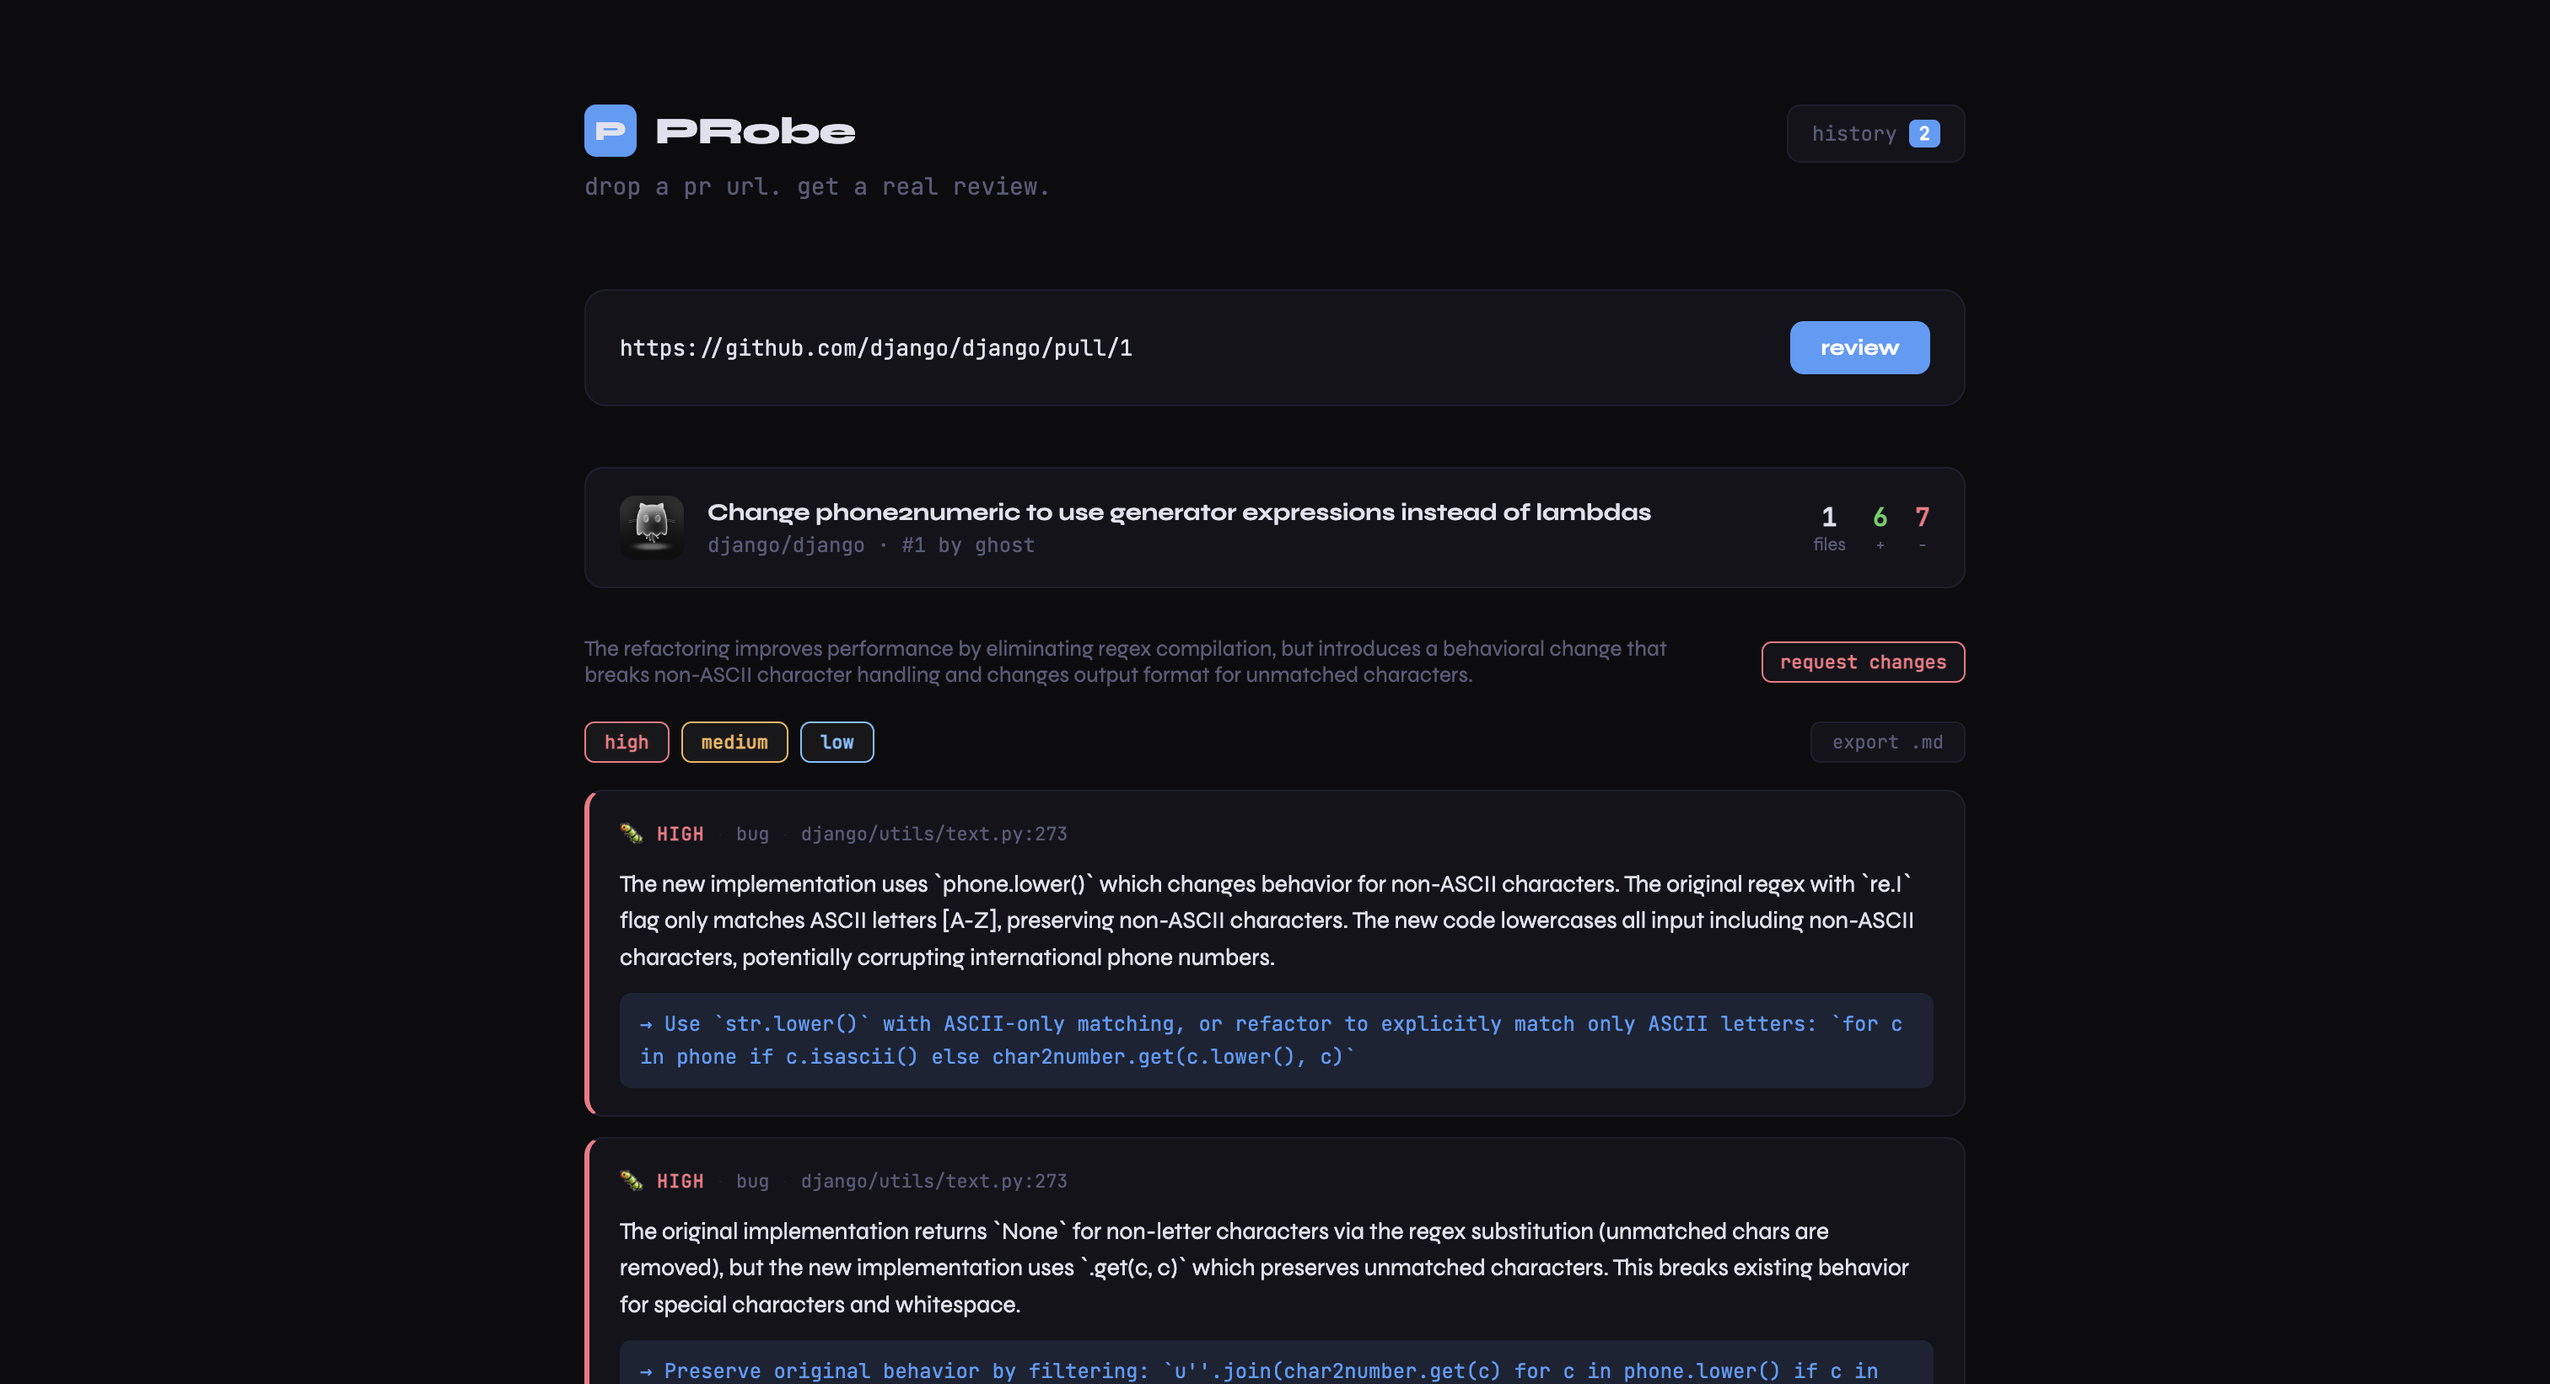
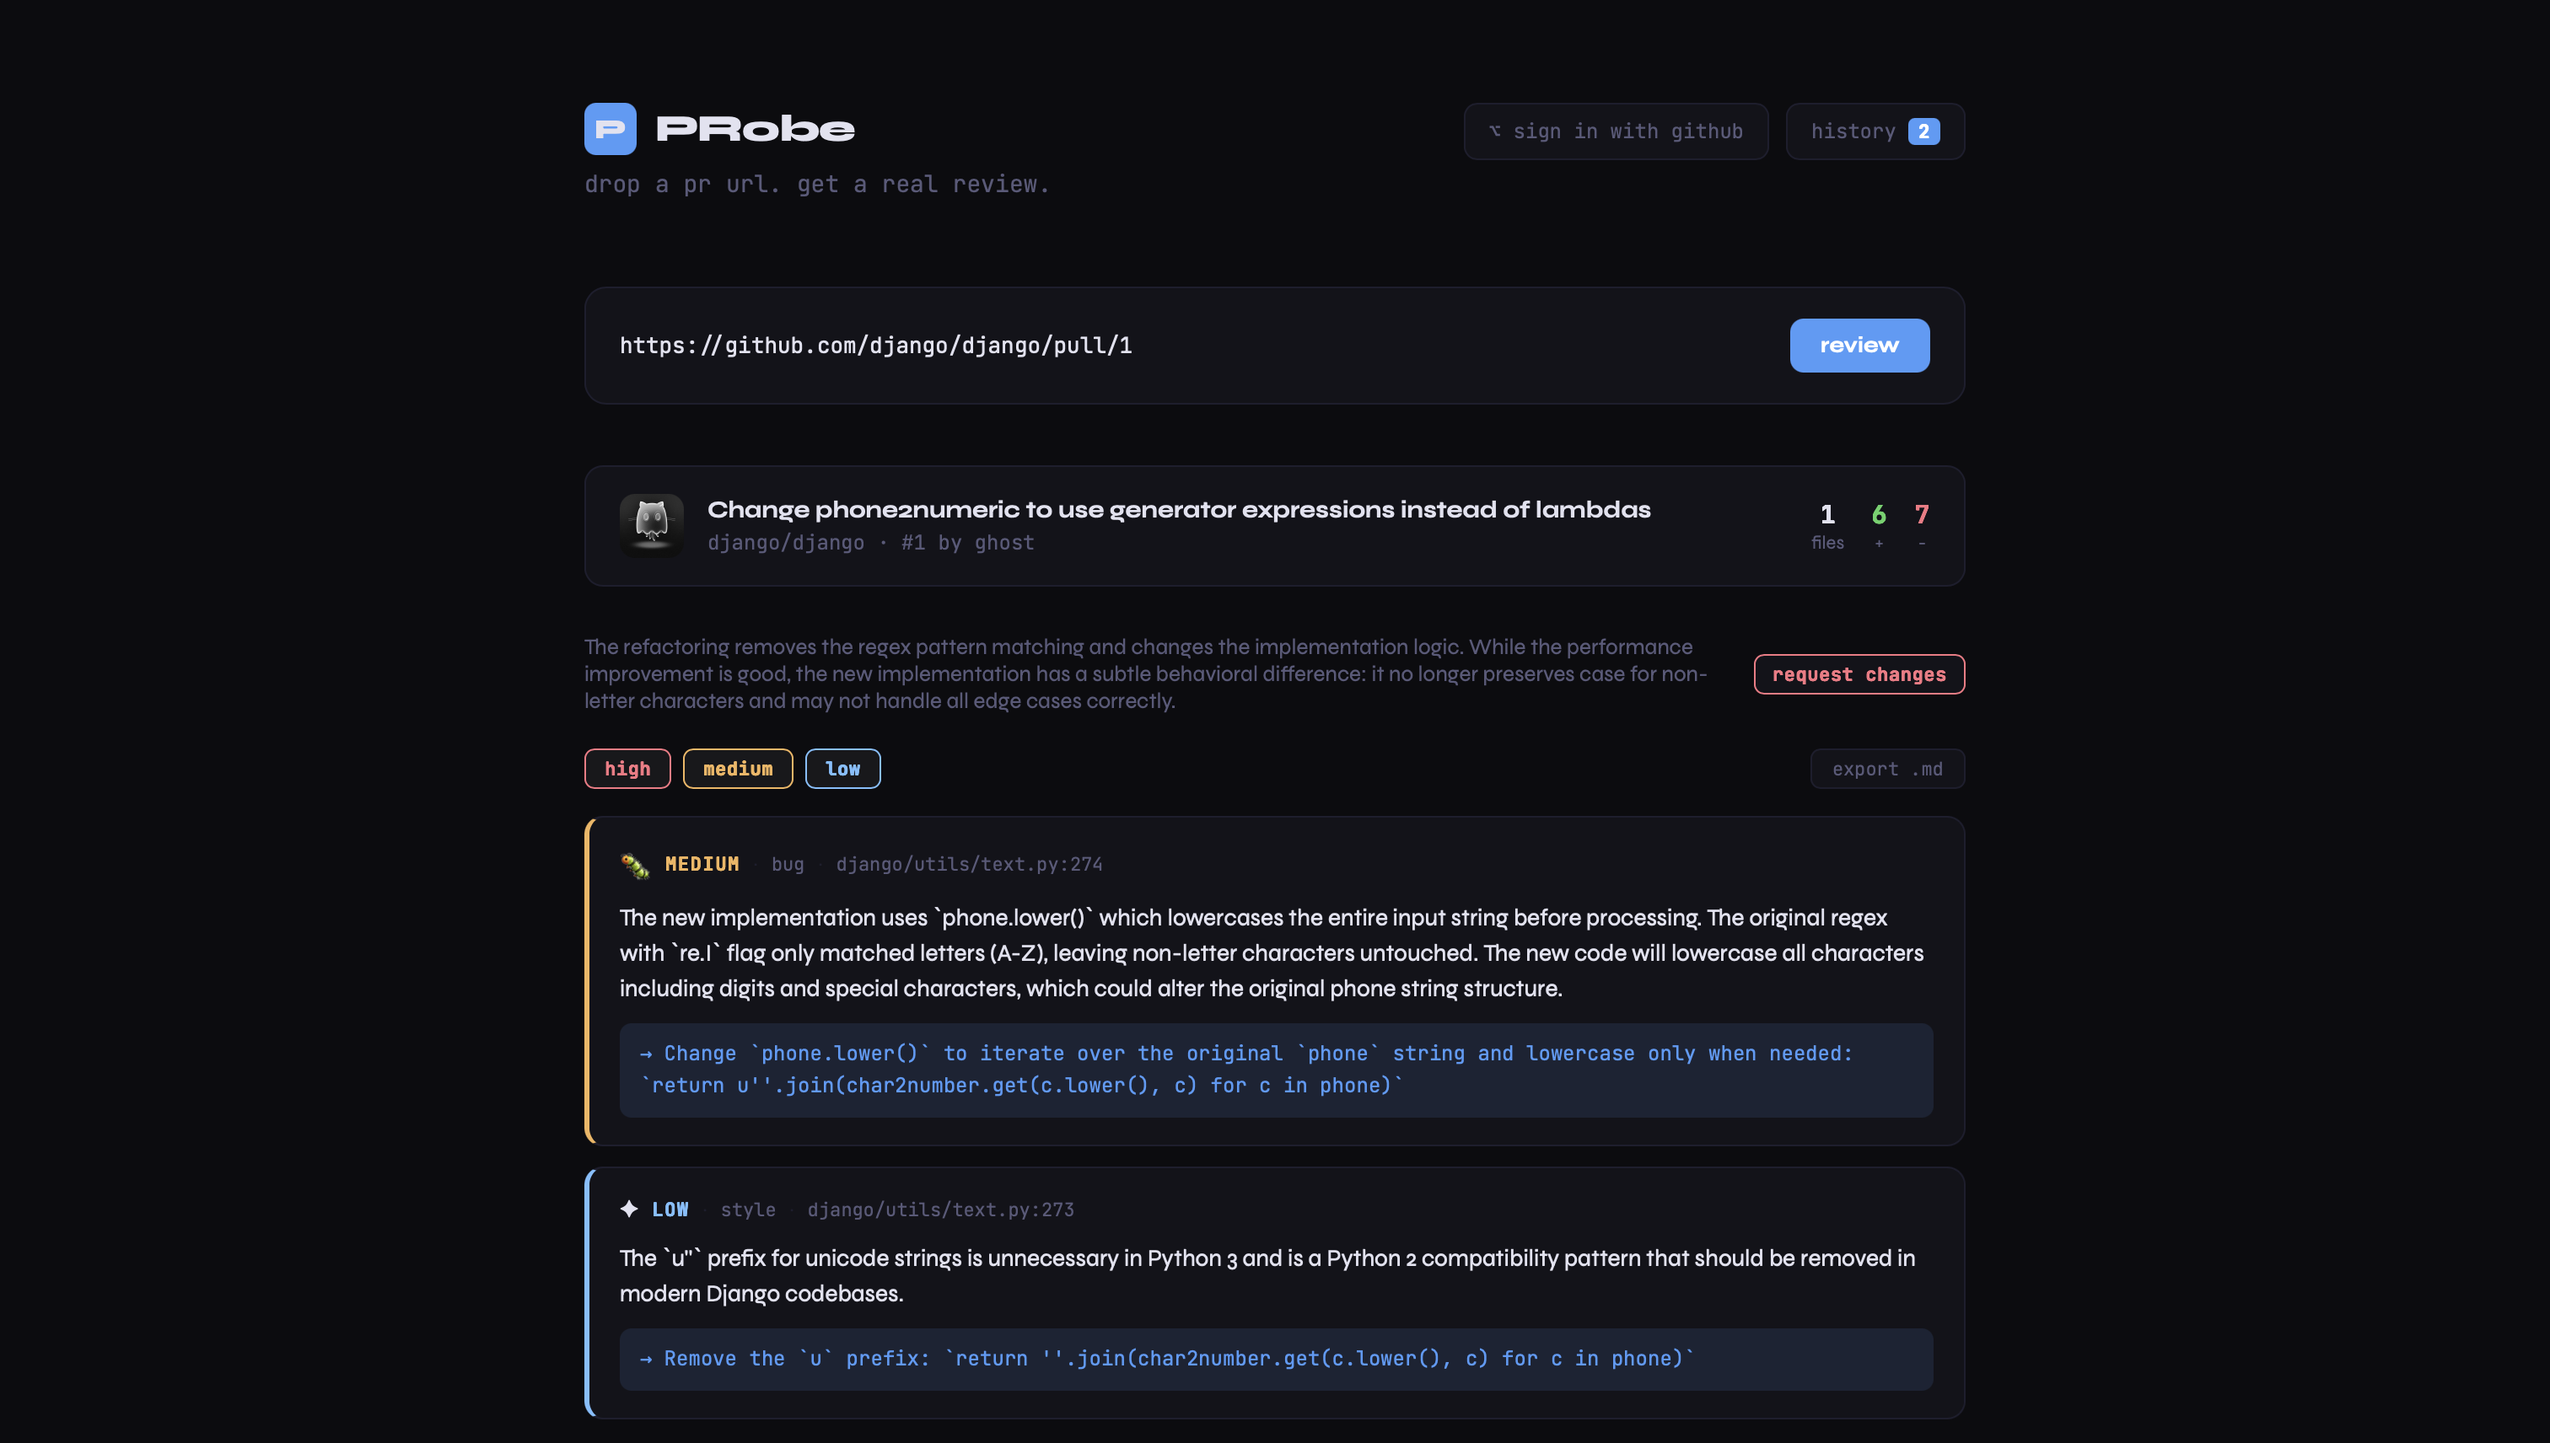
docs: update README and screenshot

diff --git a/frontend/src/Sidebar.jsx b/frontend/src/Sidebar.jsx
@@ -1,0 +1,205 @@
+import { useState } from 'react'
+import ReviewCard from './ReviewCard'
+import PRMeta from './PRMeta'
+import Skeleton from './Skeleton'
+import Sidebar from './Sidebar'
+import useHistory from './useHistory'
+
+export default function App() {
+  const [url, setUrl] = useState('')
+  const [loading, setLoading] = useState(false)
+  const [result, setResult] = useState(null)
+  const [err, setErr] = useState(null)
+  const [sidebarOpen, setSidebarOpen] = useState(false)
+  const { history, save, remove } = useHistory()
+
+  async function submit() {
+    if (!url.trim()) return
+    setLoading(true)
+    setResult(null)
+    setErr(null)
+    try {
+      const res = await fetch('http://localhost:8000/review', {
+        method: 'POST',
+        headers: { 'Content-Type': 'application/json' },
+        body: JSON.stringify({ pr_url: url.trim() })
+      })
+      const data = await res.json()
+      if (!res.ok) throw new Error(data.detail)
+      setResult(data)
+      save(url.trim(), data)
+    } catch (e) {
+      setErr(e.message)
+    } finally {
+      setLoading(false)
+    }
+  }
+
+  function loadFromHistory(entry) {
+    setUrl(entry.url)
+    setResult(entry.result)
+    setErr(null)
+  }
+
+  const verdictColor = {
+    approve: 'var(--approve)',
+    request_changes: 'var(--high)',
+    needs_discussion: 'var(--med)'
+  }
+
+  return (
+    <>
+      <Sidebar
+        history={history}
+        onSelect={loadFromHistory}
+        onRemove={remove}
+        open={sidebarOpen}
+        onClose={() => setSidebarOpen(false)}
+      />
+
+      <div>
+        <header style={{ marginBottom: 52, display: 'flex', justifyContent: 'space-between', alignItems: 'flex-start' }}>
+          <div>
+            <div style={{ display: 'flex', alignItems: 'center', gap: 11, marginBottom: 8 }}>
+              <div style={{
+                width: 31, height: 31, borderRadius: 7,
+                background: 'var(--accent)', display: 'grid', placeItems: 'center',
+                fontSize: 16, fontWeight: 800
+              }}>P</div>
+              <h1 style={{ fontSize: 22, fontWeight: 800, letterSpacing: '-0.5px' }}>PRobe</h1>
+            </div>
+            <p style={{ color: 'var(--muted)', fontSize: 14, fontFamily: 'JetBrains Mono' }}>
+              drop a pr url. get a real review.
+            </p>
+          </div>
+          <button
+            onClick={() => setSidebarOpen(true)}
+            style={{
+              background: 'var(--surface)',
+              border: '1px solid var(--border)',
+              borderRadius: 8,
+              padding: '8px 14px',
+              color: 'var(--muted)',
+              fontFamily: 'JetBrains Mono',
+              fontSize: 12,
+              cursor: 'pointer',
+              display: 'flex',
+              alignItems: 'center',
+              gap: 7
+            }}
+          >
+            history {history.length > 0 && (
+              <span style={{
+                background: 'var(--accent)',
+                color: '#fff',
+                borderRadius: 4,
+                padding: '1px 6px',
+                fontSize: 11,
+                fontWeight: 700
+              }}>{history.length}</span>
+            )}
+          </button>
+        </header>
+
+        <div style={{
+          background: 'var(--surface)',
+          border: '1px solid var(--border)',
+          borderRadius: 13,
+          padding: '18px 20px',
+          display: 'flex',
+          gap: 12,
+          marginBottom: 36
+        }}>
+          <input
+            value={url}
+            onChange={e => setUrl(e.target.value)}
+            onKeyDown={e => e.key === 'Enter' && submit()}
+            placeholder="https://github.com/owner/repo/pull/123"
+            style={{
+              flex: 1,
+              background: 'transparent',
+              border: 'none',
+              outline: 'none',
+              color: 'var(--text)',
+              fontFamily: 'JetBrains Mono',
+              fontSize: 13,
+            }}
+          />
+          <button
+            onClick={submit}
+            disabled={loading}
+            style={{
+              background: loading ? 'var(--border)' : 'var(--accent)',
+              color: loading ? 'var(--muted)' : '#fff',
+              border: 'none',
+              borderRadius: 8,
+              padding: '8px 18px',
+              fontFamily: 'Syne',
+              fontWeight: 700,
+              fontSize: 13,
+              cursor: loading ? 'not-allowed' : 'pointer',
+              transition: 'background 0.15s'
+            }}
+          >
+            {loading ? 'analyzing...' : 'review'}
+          </button>
+        </div>
+
+        {err && (
+          <div style={{
+            background: 'rgba(249,117,131,0.08)',
+            border: '1px solid rgba(249,117,131,0.3)',
+            borderRadius: 9,
+            padding: '13px 16px',
+            color: 'var(--high)',
+            fontFamily: 'JetBrains Mono',
+            fontSize: 13,
+            marginBottom: 24
+          }}>
+            {err}
+          </div>
+        )}
+
+        {loading && <Skeleton />}
+
+        {result && (
+          <div>
+            <PRMeta meta={result.meta} />
+            <div style={{
+              display: 'flex',
+              alignItems: 'center',
+              justifyContent: 'space-between',
+              marginBottom: 24
+            }}>
+              <p style={{ color: 'var(--muted)', fontSize: 13 }}>{result.summary}</p>
+              <span style={{
+                fontFamily: 'JetBrains Mono',
+                fontSize: 11,
+                fontWeight: 600,
+                color: verdictColor[result.verdict] || 'var(--muted)',
+                background: 'var(--surface)',
+                border: `1px solid ${verdictColor[result.verdict] || 'var(--border)'}`,
+                borderRadius: 6,
+                padding: '4px 10px',
+                whiteSpace: 'nowrap',
+                marginLeft: 16
+              }}>
+                {result.verdict.replace('_', ' ')}
+              </span>
+            </div>
+
+            {result.findings.length === 0 ? (
+              <p style={{ color: 'var(--approve)', fontFamily: 'JetBrains Mono', fontSize: 13 }}>
+                ✓ no issues found
+              </p>
+            ) : (
+              <div style={{ display: 'flex', flexDirection: 'column', gap: 12 }}>
+                {result.findings.map((f, i) => <ReviewCard key={i} finding={f} />)}
+              </div>
+            )}
+          </div>
+        )}
+      </div>
+    </>
+  )
+}

diff --git a/README.md b/README.md
@@ -22,7 +22,7 @@ cd backend
 python3.11 -m venv venv
 source venv/bin/activate
 pip install -r requirements.txt
-echo "ANTHROPIC_API_KEY=your-key-here" > .env
+cp .env.example .env  # add your keys
 ./venv/bin/python3.11 -m uvicorn main:app --reload
 ```
 
@@ -41,11 +41,23 @@ Then open http://localhost:5173 and paste any public GitHub PR URL.
 - fetches real PR diffs from GitHub's API
 - structured review with bugs, security, performance, and style findings
 - severity levels (high / medium / low) with file + line references
+- filter findings by severity
 - PR metadata header showing title, author, files changed, additions and deletions
-- loading skeleton while review is being generated
+- loading skeleton while review generates
+- review history sidebar (persisted in localStorage)
+- export review as markdown
+- GitHub OAuth for private repo access
+
+## env vars
+
+```
+ANTHROPIC_API_KEY=
+GITHUB_CLIENT_ID=
+GITHUB_CLIENT_SECRET=
+```
 
 ## example
 
 ```
-https://github.com/fastapi/fastapi/pull/1
+https://github.com/django/django/pull/1
 ```
